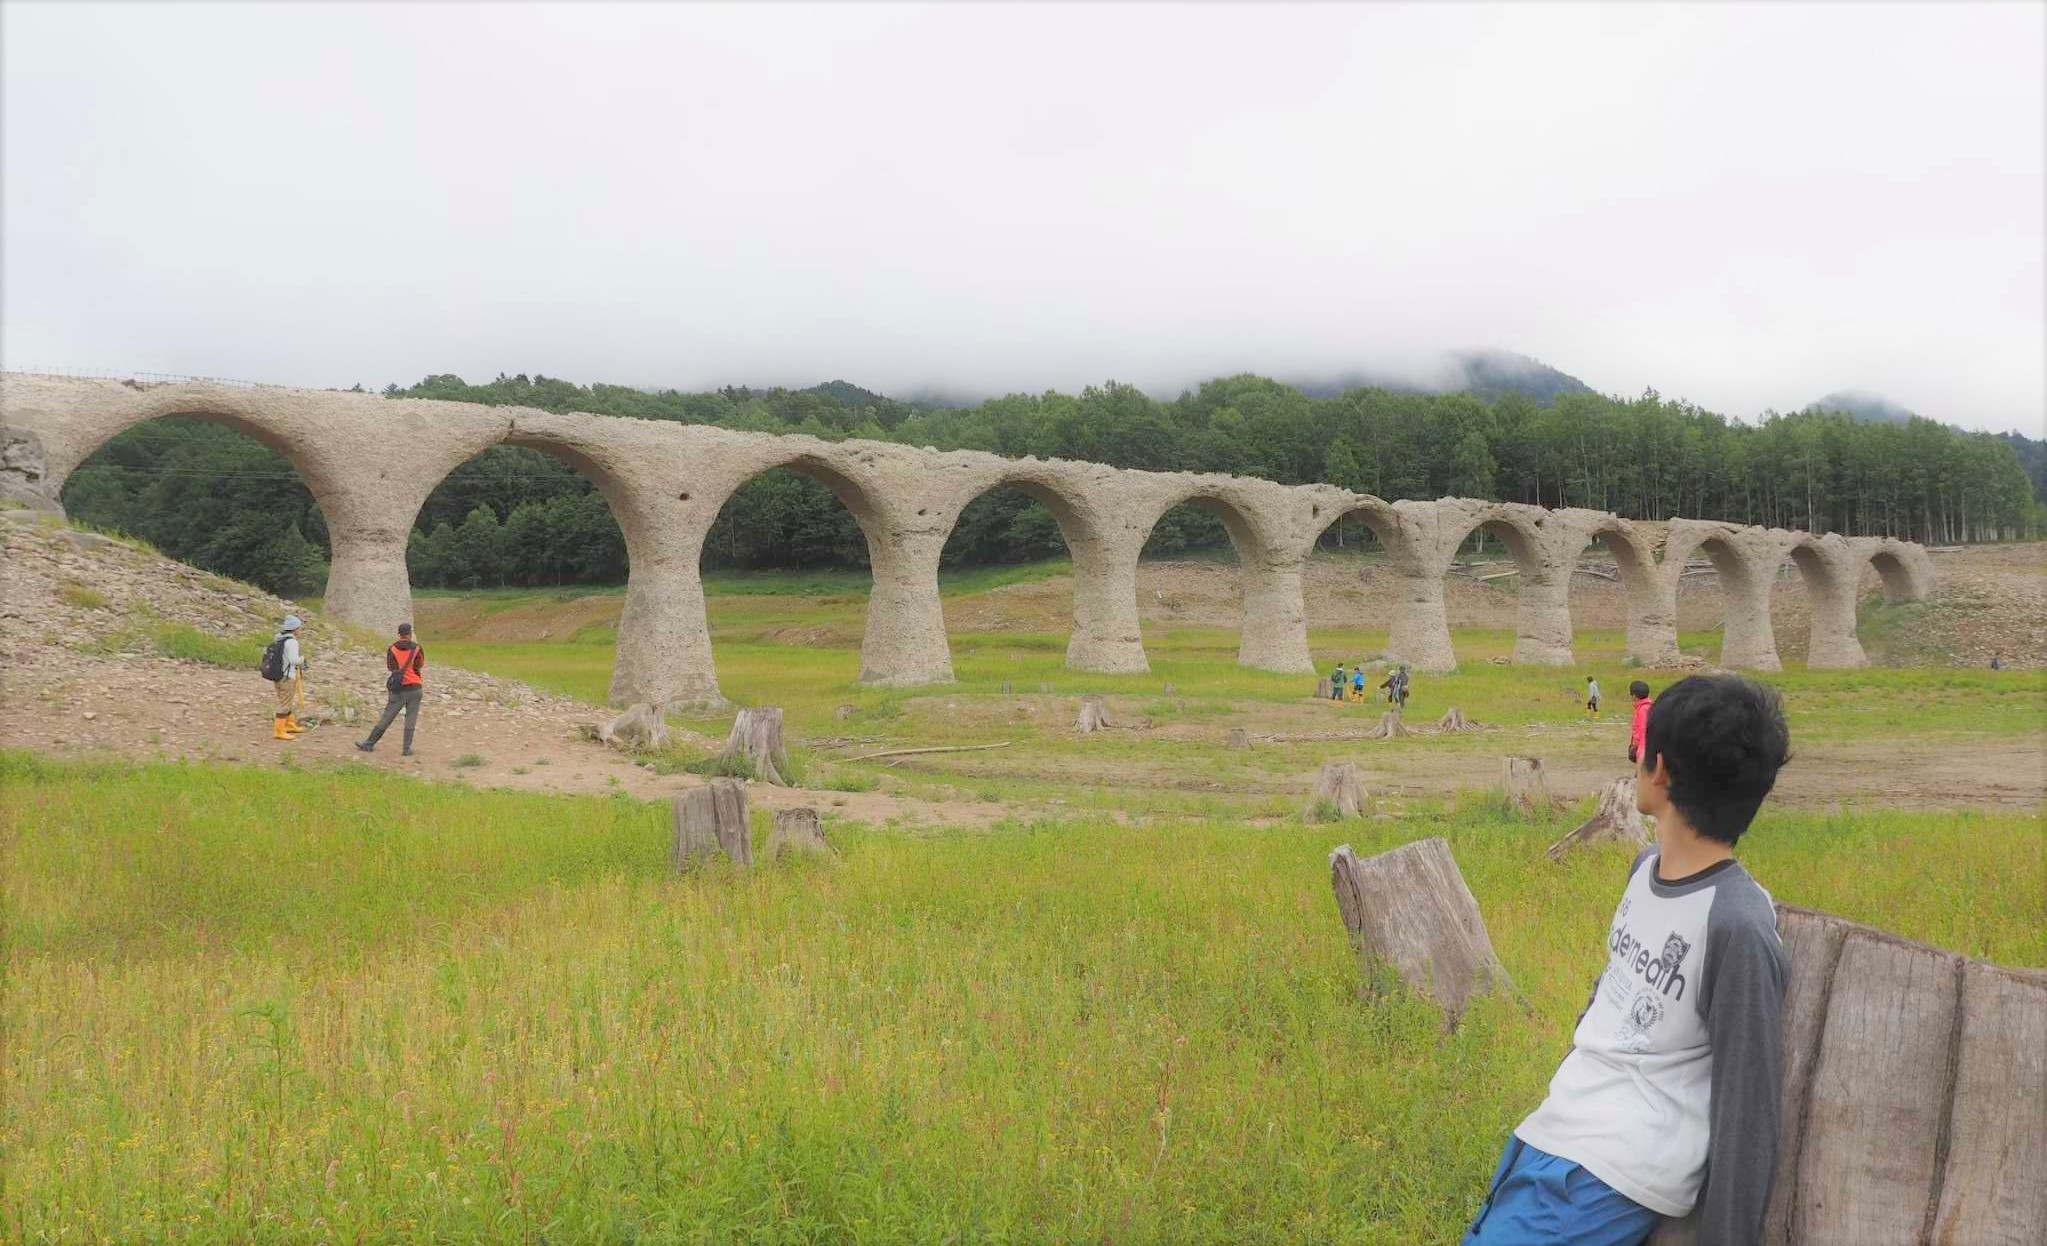
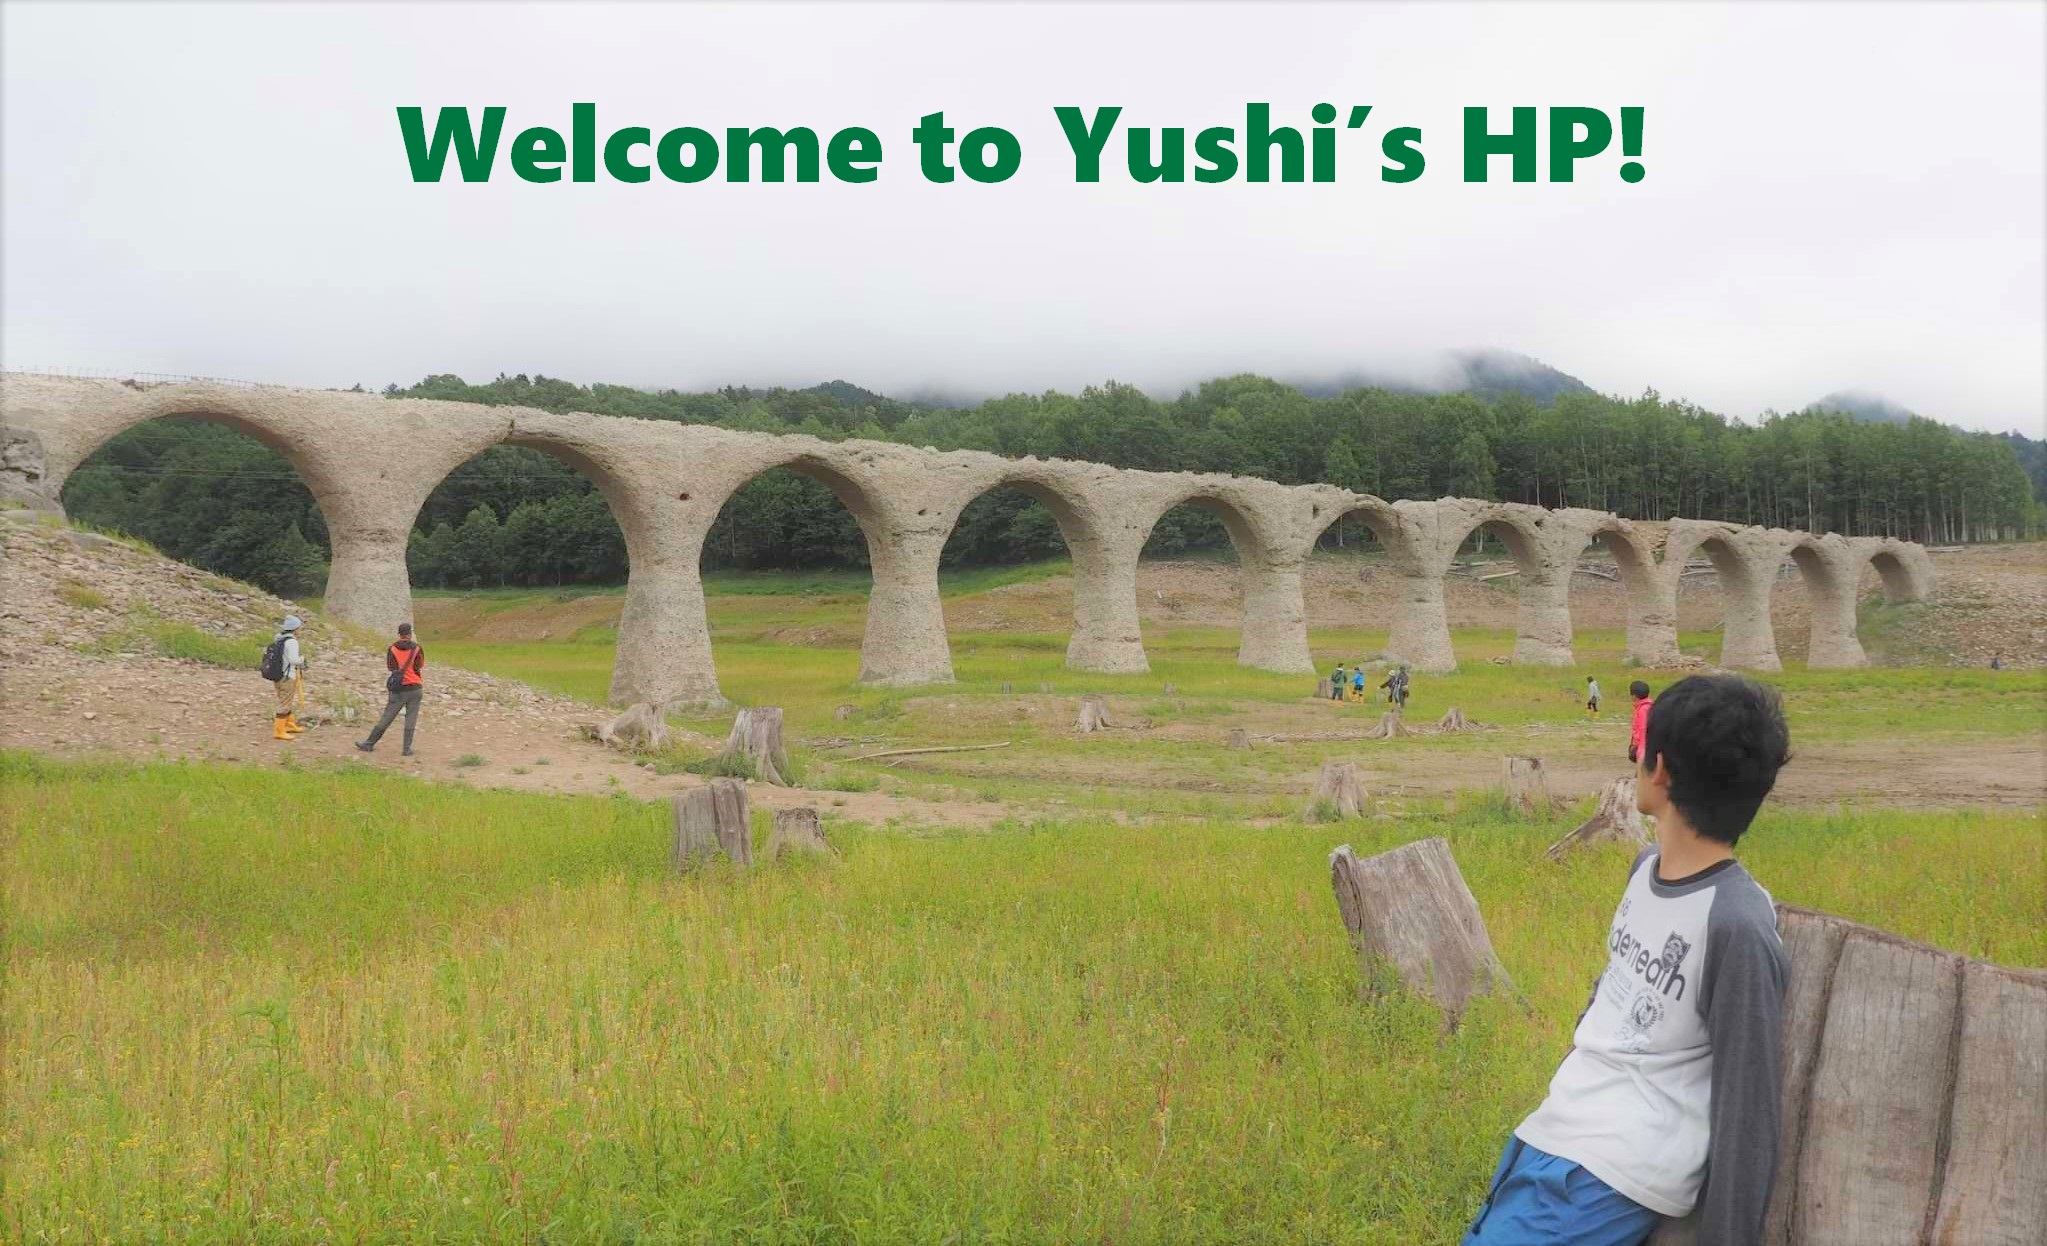
スマホ対応

Changed region(s): [[0.1847, 0.061, 0.8002, 0.1525]]

diff --git a/src/App.vue b/src/App.vue
@@ -5,11 +5,13 @@
     <!-- 色：color=rgba(0, 118, 65, 1) -->
     <v-toolbar color="#007641" app>
 
-      <!-- flat: ボタン背景色削除、icon：ボタンに丸みを持たせる click.stopの時にdrawer変数or関数?を反転させる 
-      <v-btn flat icon @click.stop="drawer = !drawer">
+
+      <!-- ナビゲーションボタン（スマホの時のみ描画）-->
+      <!-- flat: ボタン背景色削除、icon：ボタンに丸みを持たせる click.stopの時にdrawer変数or関数?を反転させる -->
+      <v-btn v-if="$vuetify.breakpoint.xs" flat icon @click.stop="drawer = !drawer">
         <font-awesome-icon icon="bars" color="#ffffff" class="fa-2x"/>
       </v-btn>
-      --> 
+      
 
       <v-toolbar-items>
         <v-btn flat>
@@ -24,10 +26,13 @@
       <v-divider class="mx-3" vertical></v-divider>
       -->
 
+
       <!-- v-spacer:  -->
       <v-spacer></v-spacer>
 
-      <v-toolbar-items>
+
+      <!-- ツールバーアイテム：スマホ以外の時に描画 -->
+      <v-toolbar-items v-if="$vuetify.breakpoint.sm || $vuetify.breakpoint.lg || $vuetify.breakpoint.md || $vuetify.breakpoint.xl">
         <v-btn flat v-for="item in items" :key="item.title">
             <router-link class='router-txt' :to="'/' + item.title">
               {{ item.title }}
@@ -37,37 +42,25 @@
     </v-toolbar>  
 
 
-    <!-- ナビゲーションバー 
-    <v-navigation-drawer 
-      v-model="drawer" 
-      temporary
-      relative
-      absolute
-    >
+    <!-- ナビゲーションバー (スマホの場合のみ機能させる)-->
+    <v-navigation-drawer v-if="$vuetify.breakpoint.xs || $vuetify.breakpoint.sm" v-model="drawer" width="250px" temporary relative absolute>
       <v-list class="pt-0" dense>
         <v-divider></v-divider>
-    -->
 
-      <!-- Homeボタンを別でつける
+      <!-- Homeボタンを別でつける-->
         <v-list-tile>
         <v-list-tile-action><font-awesome-icon class="fa-lg" :icon="'home'"/></v-list-tile-action>
-        <v-list-tile-content><v-list-tile-title><router-link class='router-txt' :to="'/Home'">Home</router-link></v-list-tile-title></v-list-tile-content>
+        <v-list-tile-content><v-list-tile-title><router-link class='navi-txt' :to="'/Home'">Home</router-link></v-list-tile-title></v-list-tile-content>
         </v-list-tile>
-      -->
 
-    <!--
-        <v-list-tile
-          v-for="item in items"
-          :key="item.title"
-        >
+        <v-list-tile v-for="item in items" :key="item.title">
           <v-list-tile-action>
             <font-awesome-icon class="fa-lg" :icon="item.icon"/>
           </v-list-tile-action>
 
           <v-list-tile-content>
             <v-list-tile-title>
-              <router-link class='router-txt'
-                :to="'/' + item.title">
+              <router-link class='navi-txt' :to="'/' + item.title">
                 {{ item.title }}
               </router-link>
             </v-list-tile-title>
@@ -75,7 +68,6 @@
         </v-list-tile>
       </v-list>
     </v-navigation-drawer>
-    -->
 
 
     <v-content>
@@ -108,6 +100,12 @@
   font-size: 17px;
   font-family: SegoeUI,"Helvetica Neue",Helvetica,Arial,sans-serif;
   color:#ffffff;
+  text-decoration: none;
+}
+.navi-txt{
+  font-size: 18px;
+  font-family: SegoeUI,"Helvetica Neue",Helvetica,Arial,sans-serif;
+  color:#000000;
   text-decoration: none;
 }
 .router-name-txt{

diff --git a/src/components/Home.vue b/src/components/Home.vue
@@ -1,11 +1,21 @@
 <template>
 
-	<v-container style="width:70%">
+	<v-container style="width:95%">
+
+		<!-- 文字後付け版
 		<v-layout text-xs-center wrap class="home-hero__content" mb-5>
 			<v-flex xs12 mt-5 mb-5>
 				<h1 class="display-2 font-weight-bold mt-3 mb-3" style="color:#007641;">Welcome to Yushi's HP!</h1>
 			</v-flex>
 		</v-layout>
+		-->
+		
+		<v-layout>
+			<v-flex xs12 mt-5 mb-5>
+				<v-img :src="require('../assets/home_photo.jpg')" contain width="100%"></v-img>
+			</v-flex>
+		</v-layout>
+		
 
 		<v-layout text-xs-left wrap ml-2 mb-5>	
 			<v-flex>
@@ -13,12 +23,12 @@
 				<v-divider class="mb-3"></v-divider>
 		
 				<v-layout text-xs-left mb-2 ml-4 wrap>
-					<v-flex xs2 sm2 md2 xl2>
+					<v-flex xs12 sm5 md2 xl2>
 						<p class="title font-weight-regular">
 						2020.3.25
 						</p>
 					</v-flex>
-					<v-flex>
+					<v-flex ml-2>
 						<p class="title font-weight-regular">
 						<a class='news-link' href='https://www.iscie.or.jp/about/award' target='_blank'>システム制御情報学会</a>より2020年度学会賞「奨励賞」を受賞しました。
 						</p>
@@ -26,12 +36,12 @@
 				</v-layout>
 
 				<v-layout text-xs-left mb-2 ml-4 wrap>
-					<v-flex xs2 sm2 md2 xl2>
+					<v-flex xs12 sm5 md2 xl2>
 						<p class="title font-weight-regular">
 						2019.8.24-9.7
 						</p>
 					</v-flex>
-					<v-flex>
+					<v-flex ml-2>
 						<p class="title font-weight-regular">
 						<a class='news-link' href='https://www.huawei.com/jp/sustainability/csr-news/hw_20190912' target='_blank'>HUAWEI Seeds for the Futureプログラム</a>に参加しました。
 						</p>
@@ -39,12 +49,12 @@
 				</v-layout>
 
 				<v-layout text-xs-left mb-2 ml-4 wrap>
-					<v-flex xs2 sm2 md2 xl2>
+					<v-flex xs12 sm5 md2 xl2>
 						<p class="title font-weight-regular">
 						2019.5.24
 						</p>
 					</v-flex>
-					<v-flex>
+					<v-flex ml-2>
 						<p class="title font-weight-regular">
 						<a class='news-link' href='https://sci19.iscie.or.jp/award/' target='_blank'>第63回システム制御情報学会研究発表講演会</a>にて学生発表賞を受賞しました。
 						</p>
@@ -52,12 +62,12 @@
 				</v-layout>
 
 				<v-layout text-xs-left mb-2 ml-4 wrap>
-					<v-flex xs2 sm2 md2 xl2>
+					<v-flex xs12 sm5 md2 xl2>
 						<p class="title font-weight-regular">
 						2019.4.1
 						</p>
 					</v-flex>
-					<v-flex>
+					<v-flex ml-2>
 						<p class="title font-weight-regular">
 						大阪大学大学院基礎工学研究科 博士前期課程に進学しました。
 						</p>
@@ -65,12 +75,12 @@
 				</v-layout>
 
 				<v-layout text-xs-left mb-2 ml-4 wrap>
-					<v-flex xs2 sm2 md2 xl2>
+					<v-flex xs12 sm5 md2 xl2>
 						<p class="title font-weight-regular">
 						2019.3.3
 						</p>
 					</v-flex>
-					<v-flex>
+					<v-flex ml-2>
 						<p class="title font-weight-regular">
 						<a class='news-link' href='https://www.osaka-u.ac.jp/ja/news/topics/2019/03/1301' target='_blank'>第8回サイエンス・インカレ</a>にてファーウェイ賞を受賞しました。
 						</p>

diff --git a/src/components/Projects.vue b/src/components/Projects.vue
@@ -6,23 +6,23 @@
 			</v-flex>
 		</v-layout>
 
-		<v-layout row mb-5>
+		<v-layout row mb-5 ml-5 wrap>
 			<!-- offset：offset-md1 offset-xl1) -->
-			<v-flex xs4 sm4 md4 xl4 mr-5 ml-5>
+			<v-flex xs11 sm4 md4 xl4 mr-5>
 				<v-img :src="require('../assets/projects/eh_phf.gif')" contain></v-img>
 			</v-flex>
-			<v-flex xs6 sm6 md6 xl6>
+			<v-flex xs11 sm6 md6 xl6>
 				<h2 class="headline font-weight-bold mb-1">投影バーチャルハンドインタフェースに対する疑似触覚フィードバックの応用</h2>
 				<p class="subtitle-1 mb-3">(IEEE Access 2020, IEEE World Haptics 2019 Poster, Demo)</p>
 				<p class="body-1">ユーザの手の動きに連動して動くバーチャルハンドをプロジェクタから投影する投影バーチャルハンドインタフェースは、日常生活でのユーザの手の届く範囲を拡張することができます。しかし、投影バーチャルハンドが実物体に重なった際、ユーザはその物体に触れている感覚を得られません。本プロジェクトでは、投影バーチャルハンドが実物体に触れた際に、バーチャルハンドに視覚効果を付与することで、疑似触覚フィードバックによりユーザにその物体の触感を知覚させる手法を提案しました。</p>
 			</v-flex>
 		</v-layout>
 
-		<v-layout row mb-5>
-			<v-flex xs4 sm4 md4 xl4 mr-5 ml-5>
+		<v-layout row mb-5 ml-5 wrap>
+			<v-flex xs11 sm4 md4 xl4 mr-5>
 				<v-img :src="require('../assets/projects/farfeel.jpg')" contain></v-img>
 			</v-flex>
-			<v-flex xs6 sm6 md6 xl6>
+			<v-flex xs11 sm6 md6 xl6>
 				<h2 class="headline font-weight-bold mb-1">fARFEEL: Providing Haptic Sensation of Touched Objects Using Visuo-Haptic Feedback</h2>
 				<p class="subtitle-1 mb-3">(IEEE VR 2019 Demo)</p>
 				<p class="body-1">

diff --git a/src/components/Publications.vue b/src/components/Publications.vue
@@ -86,10 +86,10 @@
       <v-divider class="mb-3"></v-divider>
       <ol>
         <li class="headline mb-2 ml-3">
-          Seamless (<a href="https://shiropen.com/seamless/farfeel" target="_blank">https://shiropen.com/seamless/farfeel</a>)
+          Seamless (<a href="https://shiropen.com/seamless/farfeel" style="word-break:break-all;" target="_blank">https://shiropen.com/seamless/farfeel</a>)
         </li> 
         <li class="headline mb-2 ml-3">
-          MoguraVR (<a href="https://www.moguravr.com/world-haptics-conference-2019" target="_blank">https://www.moguravr.com/world-haptics-conference-2019</a>)
+          MoguraVR (<a href="https://www.moguravr.com/world-haptics-conference-2019" style="word-break:break-all;" target="_blank">https://www.moguravr.com/world-haptics-conference-2019</a>)
         </li> 
       </ol>
       </v-flex>

diff --git a/src/components/Profile.vue b/src/components/Profile.vue
@@ -1,12 +1,17 @@
 <template>
 
 	<v-container>
-		<v-layout text-xs-center wrap>		
-			<v-flex xs12 mb-6>		
-				<v-img :src="require('../assets/profile_photo.jpg')" class="my-3" contain height="300"></v-img>
-				<p class="title mb-4">Photo @IEEE WHC 2019にて</p>
+		<v-layout text-xs-center mb-2 wrap>		
+			<v-flex>		
+				<v-img :src="require('../assets/profile_photo.jpg')" contain height="300"></v-img>
 			</v-flex>			
 		</v-layout>
+		<v-layout text-xs-center mb-5 wrap>		
+			<v-flex>		
+				<p class="title">Photo @IEEE WHC 2019にて</p>
+			</v-flex>			
+		</v-layout>
+
 
 		<v-layout text-xs-left wrap>	
 			<v-flex mb-4>
